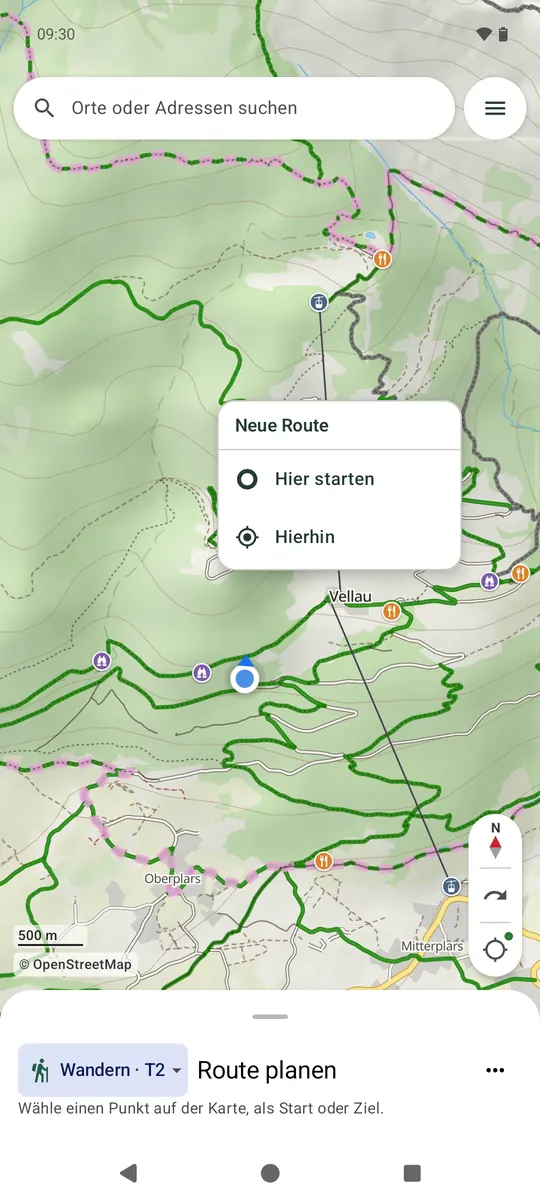
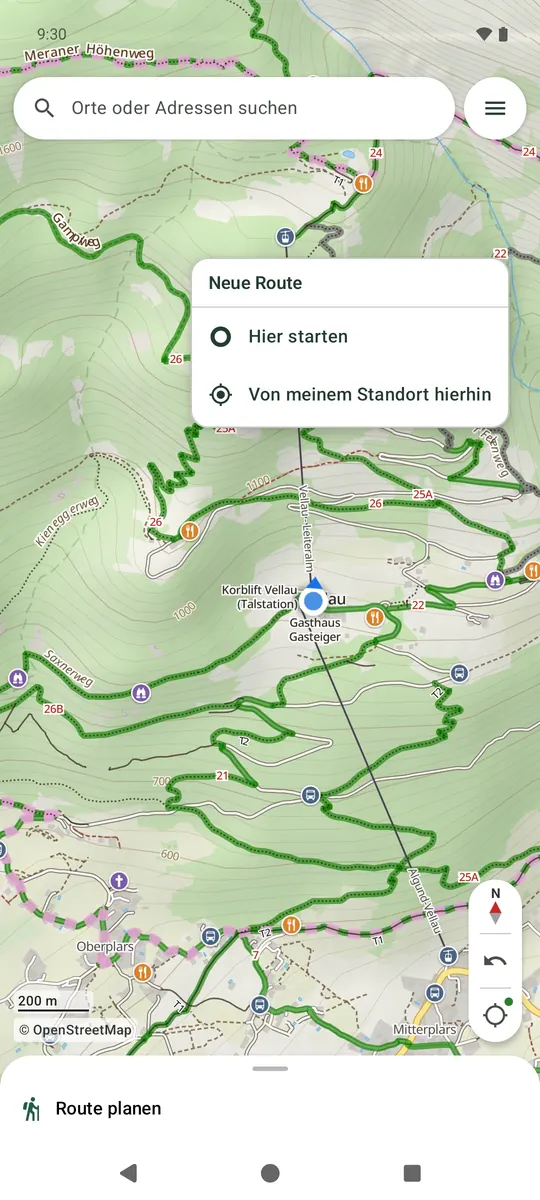
Real app screens from 2026-11-01: "Stopp" slider, "Von meinem Standort hierhin", plan panel with points list (DE + EN); home page uses the English screens too
Replaces the patched navigation picture. Copy says "Von meinem Standort hierhin" / "Go here from my location" like the app.

Claude-Session: https://claude.ai/code/session_01167zC9N9uMkuUwQSddLLce

diff --git a/content_de.py b/content_de.py
@@ -1,6 +1,6 @@
 import sys as _sys, os as _os
 _sys.path.insert(0,_os.path.dirname(_os.path.abspath(__file__)))
-from help_shots import shots_html
+from help_shots import shots_html, files as help_files
 from pathlib import Path
 import html, json
 ROOT=Path(__file__).parent; D=ROOT/'dist'; A=D/'assets'; A.mkdir(parents=True,exist_ok=True)
@@ -87,18 +87,18 @@ def open_section(lang='de'):
     return '<section class="story-section"><div class="wrap"><div class="section-heading"><div><p class="eyebrow">'+O['eye']+'</p><h2>'+O['h']+'</h2></div></div><div class="points trust-points">'+points+'</div><div class="founder-note">'+author+'<p>'+O['founder']+'</p></div><div class="trust-links">'+links+'</div></div></section>'
 FIRST_STEPS={
  'de':dict(eye='So einfach geht’s',h='Planen, losgehen, umplanen.',lead='So beginnt deine erste Tour mit OnPath.',items=[
-  ('halten','Ziel wählen. Route ansehen.','Halte dein Ziel auf der Karte gedrückt und wähle „Hierhin“. OnPath plant den Weg von deinem Standort dorthin – passend zu deiner gewählten Aktivität.','OnPath beim Öffnen: die Karte, ein Punkt gedrückt gehalten'),
+  ('halten','Ziel wählen. Route ansehen.','Halte dein Ziel auf der Karte gedrückt und wähle „Von meinem Standort hierhin“. OnPath plant den Weg von deinem Standort dorthin – passend zu deiner gewählten Aktivität.','OnPath beim Öffnen: die Karte, ein Punkt gedrückt gehalten'),
   ('plan','Ein Tipp – und du bist unterwegs.','Zeit, Höhenmeter und steile Stellen siehst du sofort. Passt alles, startest du mit „Navigation starten“ deine Tour. Mehr Details? Zieh das Fenster einfach nach oben.','Die geplante Route mit Zeit, Höhenprofil und „Navigation starten“'),
   ('navi','Unterwegs den Weg ändern.','Lust auf einen Abstecher? Schiebe „Stopp“ zur Seite. Dort kannst du pausieren, die Tour beenden oder den Weg ändern. Beim Umplanen läuft die Aufzeichnung weiter. Mit „Weiter“ kehrst du zur Navigation zurück.','Navigation mit dem Schieber „Stopp“ unten')],
   prep='Für eine Tour ohne Empfang: Lade die Karten vorher, am besten zu Hause im WLAN. Ein neues Gebiet kann beim ersten Laden einige Minuten brauchen.',help=('/hilfe/offline/','Karten vorbereiten'),more=('/hilfe/erste-schritte/','Schritt für Schritt in der Hilfe')),
  'en':dict(eye='It’s that simple',h='Plan, go, change your mind.',lead='This is how your first outing with OnPath begins.',items=[
-  ('halten','Choose a destination. See your route.','Press and hold your destination on the map and choose “Go here”. OnPath plans the way from your current location for your chosen activity.','OnPath when it opens: the map, a point held down (German screen)'),
+  ('halten','Choose a destination. See your route.','Press and hold your destination on the map and choose “Go here from my location”. OnPath plans the way from your current location for your chosen activity.','OnPath when it opens: the map, a point held down'),
   ('plan','One tap and you are off.','Time, climbing and steep parts at a glance. All good? Tap “Start navigation” and go. Want more detail? Just pull the panel up.','The planned route with time, elevation profile and “Start navigation”'),
-  ('navi','Change your way as you go.','Fancy a detour? Slide “Stop” aside. There you can pause, end the outing or change the way ahead. Recording continues while you change the plan. Tap “Continue” to return to navigation.','Navigation with the “Stop” slider at the bottom (German screen)')],
+  ('navi','Change your way as you go.','Fancy a detour? Slide “Stop” aside. There you can pause, end the outing or change the way ahead. Recording continues while you change the plan. Tap “Continue” to return to navigation.','Navigation with the “Stop” slider at the bottom')],
   prep='For an outing without reception, download your maps beforehand, ideally at home on Wi-Fi. A new area can take a few minutes to load the first time.',help=('/help/offline/','Prepare your maps'),more=('/help/getting-started/','Step by step in the help'))}
 def first_steps(lang='de'):
     F=FIRST_STEPS[lang]; anchor='entdecken' if lang=='de' else 'discover'
-    pic=lambda k:'/assets/help/'+k+('-en' if lang=='en' and k=='plan' else '-de')+'.webp'
+    pic=lambda k:'/assets/help/'+help_files(k)[1 if lang=='en' else 0]
     cards=''.join('<article class="feature know"><img class="know-shot" src="'+pic(k)+'" alt="'+alt+'" width="540" height="1200" loading="lazy" decoding="async"><div class="feature-top"><span>0'+str(i+1)+'</span></div><h3>'+title+'</h3><p>'+text+'</p></article>' for i,(k,title,text,alt) in enumerate(F['items']))
     return '<section class="section" id="'+anchor+'"><div class="wrap"><div class="section-heading"><div><p class="eyebrow">'+F['eye']+'</p><h2>'+F['h']+'</h2></div><div><p>'+F['lead']+'</p><a class="button outline small know-help" href="'+F['more'][0]+'">'+F['more'][1]+' →</a></div></div><div class="feature-grid">'+cards+'</div><p class="section-footnote">'+F['prep']+' <a href="'+F['help'][0]+'">'+F['help'][1]+' →</a></p></div></section>'
 def home_cta(lang='de'):
@@ -145,7 +145,7 @@ HELP=[
 ('erste-schritte','Deine erste Tour','Installieren, Gebiet laden und eine kleine Runde planen.','Start Installation Android Berechtigung Standort',[
 ('OnPath installieren','<p>OnPath läuft auf Android ab Version 8. Eine iPhone-Version gibt es derzeit nicht.</p><p>Aktuell läuft Phase 1: Du brauchst eine persönliche Einladung und Freischaltung durch Christian. Deinen individuellen Link und die Installationshinweise bekommst du direkt von ihm. Die geschlossene Testgruppe über Google Play ist der nächste Schritt. Wie das geht, steht unter <a href="/ausprobieren/">OnPath ausprobieren</a>.</p><p>Für technisch Erfahrene gibt es frühe Fassungen auch als APK-Datei auf <a href="'+GITHUB+'/releases">GitHub</a>. Sie sind anders signiert als die Play-Fassung; sichere deine Touren, bevor du zwischen beiden wechselst.</p>'),
 ('Zu Hause vorbereiten','<ol><li>Öffne OnPath mit Internetverbindung, möglichst im WLAN.</li><li>Erlaube den Standortzugriff, wenn du deine Position sehen und eine Tour aufzeichnen möchtest.</li><li>Suche dein Ziel oder bewege die Karte in dein Tourengebiet. Warte, bis die Karten und die Daten zur Routenberechnung vollständig geladen sind.</li><li>Wähle deine Aktivität. Beim Wandern legst du außerdem die gewünschte Schwierigkeit fest.</li></ol>'),
-('Die erste Runde planen','<p>Für eine Route von deinem Standort aus: Halte dein Ziel auf der Karte gedrückt und wähle „Hierhin“. OnPath verbindet deinen Standort mit dem Ziel über passende Wege. Prüfe Länge, Höhenmeter und Hinweise zur Strecke.</p><p>Möchtest du woanders starten, halte zuerst den gewünschten Startpunkt gedrückt und wähle „Hier starten“. Setze danach das Ziel und bei Bedarf Zwischenstopps.</p><p>Beginne am besten mit einer kurzen Strecke, die du kennst. So lernst du die Bedienung ohne Zeitdruck kennen.</p>'),
+('Die erste Runde planen','<p>Für eine Route von deinem Standort aus: Halte dein Ziel auf der Karte gedrückt und wähle „Von meinem Standort hierhin“. OnPath verbindet deinen Standort mit dem Ziel über passende Wege. Prüfe Länge, Höhenmeter und Hinweise zur Strecke.</p><p>Möchtest du woanders starten, halte zuerst den gewünschten Startpunkt gedrückt und wähle „Hier starten“. Setze danach das Ziel und bei Bedarf Zwischenstopps.</p><p>Beginne am besten mit einer kurzen Strecke, die du kennst. So lernst du die Bedienung ohne Zeitdruck kennen.</p>'),
 ('Navigation starten','<p>Tippe auf „Navigation starten“. Der Plan bleibt geschützt: Ein kurzer Tipp auf die Karte verändert die Route nicht. Möchtest du unterwegs etwas ändern, wechselst du bewusst in die Planung.</p>')]),
 ('offline','Ohne Netz unterwegs','Karten vorbereiten und auch im Funkloch umplanen.','Karten Internet WLAN Funkloch Download Flugmodus',[
 ('Was offline funktioniert','<p>In vollständig geladenen Gebieten kannst du Orte suchen, eine Route planen, navigieren und unterwegs neu berechnen. Die Berechnung findet auf deinem Handy statt.</p>'),

diff --git a/help_shots.py b/help_shots.py
@@ -13,15 +13,16 @@ from html import escape
 
 IMAGES = {
     'leer': ('08a-erste-route-leer.png', None, 'Leerer Plan: Hier setzt du den ersten Punkt.', 'Empty plan: this is where you set the first point.'),
-    'halten': ('08b-erste-route-halten.png', None, 'Karte gedrückt halten: „Hier starten“ oder „Hierhin“.', 'Hold the map: start here or go here.'),
+    'halten': ('08b-erste-route-halten.png', 'halten-en.png', 'Karte gedrückt halten: „Hier starten“ oder „Von meinem Standort hierhin“.', 'Hold the map: “Start here” or “Go here from my location”.'),
     'punkt1': ('08c-erste-route-punkt1.png', None, 'Der Start ist gesetzt, jetzt kommt das Ziel.', 'The start is set, now the destination.'),
     'ziel': ('08d-erste-route-ziel-menue.png', None, 'Einen Ort halten und als Ziel setzen.', 'Hold a place and set it as the destination.'),
     'fertig': ('08e-erste-route-fertig.png', None, 'Die Route steht: Zeit, Länge, Hinweise und Höhenprofil.', 'The route is ready: time, distance, notes and elevation profile.'),
     'plan': ('02-plan-wandern.png', 'plan-wandern-en.png', 'Wandern T2: Zeit, Höhenmeter und zwei steile Abschnitte.', 'Hike T2: time, climbing and two steep sections.'),
     'ebike': ('03-plan-ebike.png', 'plan-ebike-en.png', 'Dieselbe Strecke mit dem E-Bike, mit Schiebestück.', 'The same route by e-bike, with a short push.'),
+    'punkteliste': ('08f-plan-punkteliste.png', 'plan-punkteliste-en.png', 'Das Plan-Fenster ganz hochgezogen: Profil und alle Punkte.', 'The plan panel pulled all the way up: profile and all points.'),
     'hinweise': ('02b-plan-wandern-hinweise.png', None, 'Die Hinweise zur Strecke: wo es steil wird.', 'Notes on the route: where it gets steep.'),
-    'navi': ('09a-unterwegs-navigation-stopp.png', None, 'Navigation, unten der Schieber „Stopp“.', 'Navigation, with the “Stop” slider at the bottom.'),
-    'tourmenue': ('09b-unterwegs-tourmenue.png', None, 'Nach dem Schieben: Die Tour läuft weiter, „Weiter“ führt zurück.', 'After sliding: the tour keeps running, “Continue” takes you back.'),
+    'navi': ('09a-unterwegs-navigation-stopp.png', 'navigation-stopp-en.png', 'Navigation, unten der Schieber „Stopp“.', 'Navigation, with the “Stop” slider at the bottom.'),
+    'tourmenue': ('09b-unterwegs-tourmenue.png', 'tourmenue-en.png', 'Nach dem Schieben: Die Tour läuft weiter, „Weiter“ führt zurück.', 'After sliding: the tour keeps running, “Continue” takes you back.'),
     'suche': ('09b2-unterwegs-suche.png', None, 'Einen Ort suchen, auch unterwegs.', 'Search for a place, also on the way.'),
     'ort': ('09c-unterwegs-ort-halten.png', 'ort-google-maps-en.png', 'Ort gefunden: als neues Ziel anhängen oder in Google Maps öffnen.', 'Place found: add it as a new destination or open it in Google Maps.'),
     'neue-route': ('09d-unterwegs-neue-route.png', None, 'Die neue Route zum Gasthof – ohne Netz berechnet.', 'The new route to the inn – calculated without a connection.'),
@@ -44,7 +45,7 @@ SHOTS = {
         ('erste-schritte', 3): ['navi'],
         ('offline', 0): ['neue-route'],
         ('route-planen', 0): ['plan', 'ebike'],
-        ('route-planen', 1): ['punkt1', 'ziel'],
+        ('route-planen', 1): ['punkt1', 'ziel', 'punkteliste'],
         ('route-planen', 2): ['hinweise'],
         ('unterwegs-aendern', 0): ['navi', 'tourmenue'],
         ('unterwegs-aendern', 1): ['suche', 'ort', 'neue-route'],
@@ -62,7 +63,7 @@ SHOTS = {
         ('getting-started', 2): ['navi'],
         ('offline', 0): ['neue-route'],
         ('planning', 0): ['plan', 'ebike'],
-        ('planning', 1): ['punkt1', 'ziel'],
+        ('planning', 1): ['punkt1', 'ziel', 'punkteliste'],
         ('planning', 2): ['hinweise'],
         ('change-route', 0): ['navi', 'tourmenue'],
         ('change-route', 1): ['suche', 'ort', 'neue-route'],

diff --git a/content_en.py b/content_en.py
@@ -38,7 +38,7 @@ ARTICLES = {
 HELP_EN = [
  ('getting-started','Your first outing','Install, prepare an area and plan a short route.', 'start install location android', [
  ('Prepare at home','OnPath needs Android 8 or newer. Phase 1 currently requires a personal invitation and approval from Christian. The closed test group is the next step; see the Try page for access. Allow the location access needed for navigation and recording. Prepare your area while connected, preferably on Wi-Fi.'),
- ('Plan a familiar route','Choose your activity. For a route from your current location, press and hold your destination on the map and choose “Go here”. To start elsewhere, first hold the start point and choose “Start here”, then add the destination and any stops. Check distance, climbing, time and route notices. Wait until the required maps are downloaded.'),
+ ('Plan a familiar route','Choose your activity. For a route from your current location, press and hold your destination on the map and choose “Go here from my location”. To start elsewhere, first hold the start point and choose “Start here”, then add the destination and any stops. Check distance, climbing, time and route notices. Wait until the required maps are downloaded.'),
  ('Start navigation','Start on a short, familiar route. The route is protected against accidental map taps during navigation. Switch deliberately to editing when you want to change it.')]),
  ('offline','Without a connection','Download your maps before you head out.', 'map internet download wifi offline', [
  ('What works offline','With the required maps and route data downloaded, you can search local places, plan, navigate and recalculate routes on your phone.'),
